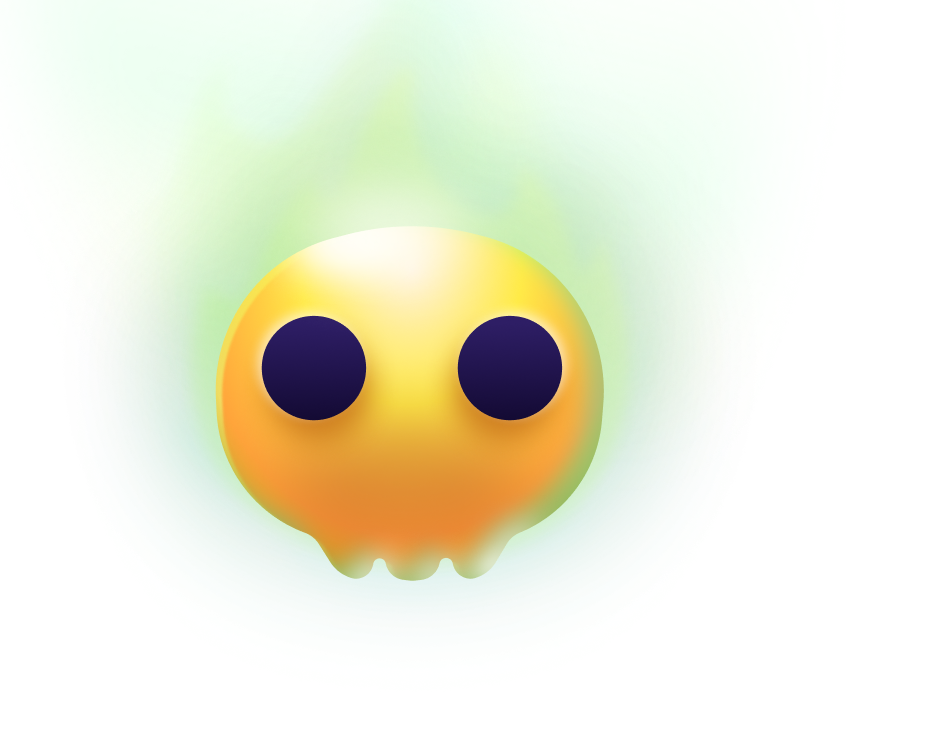
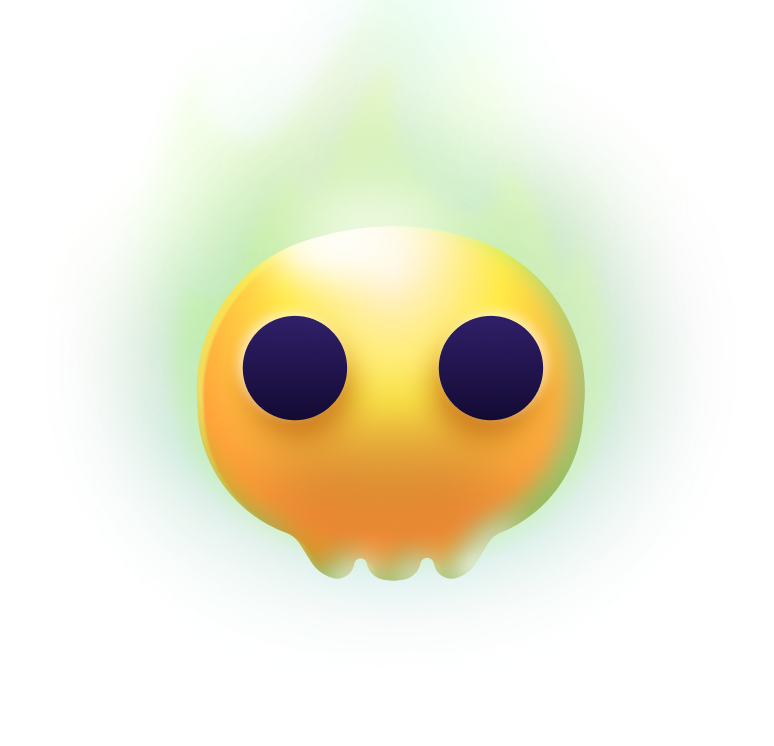
Added burger menu

Changed region(s): [[0.2171, 0.2466, 0.8372, 0.8016], [0.3101, 0.0308, 0.4341, 0.185]]

diff --git a/index.html b/index.html
@@ -26,7 +26,13 @@
   </head>
   <body>
     
-      <header class="header container">
+    <header class="header container">
+        <div href="#" class="header__btn">
+          <span class="bar"></span>
+          <span class="bar"></span>
+          <span class="bar"></span>
+        </div>
+       
         <div class="header__nav">
           <div class="header__logo">
             <img src="img/logo.svg" alt="" />
@@ -52,18 +58,12 @@
             </ul>
           </nav>
         </div>
-        <div class="burger">
-          <span></span>
-          <span></span>
-          <span></span>
-        </div>
       </header>
       <div class="main container">
-        <div class="main__wrapper">
-
-          <div class="main__l">
-            <img src="img/spookyskull.png" alt="" />
-          </div>
+    
+          
+          <div class="main__l">   
+             <img src="img/spookyskull.png" alt="">      </div>
           <div class="main__r">
             <div class="main__title">
               <span>#1 Top Scariest Ghost 2020</span>
@@ -80,7 +80,7 @@
             </div>
             <button class="btn2">His Track record</button> <img src="img/arrow.svg" alt="">
           </div>
-        </div>
+        
         </div>
       </div>
    

diff --git a/app/scss/main.scss b/app/scss/main.scss
@@ -1,34 +1,29 @@
 .main {
-  padding: 0 40px;
-  &__wrapper{
-    position: absolute;
-    top: 0;
-    display: flex;
-    justify-content: space-between;
-    align-items: center;
-    z-index: -1;
-  }
-  &__l {
-    img {
-      height: auto;
-      width: 100%;
-      
-      object-fit: cover;
-      max-width: 1108px;
+ 
 
-      z-index: -1233333;
-      top: 0;
-      left: 0;
-      
+  display: flex;
+  justify-content: space-between;
+  align-items: center;
+  flex-wrap: wrap;
+
+  
+  &__l {
+    background-size: contain;
+    background-position: center;
+
+    img {
+      transform: translateY(-70px);
+      width: 100%;
+      max-height: 100%;
+      max-width: 774px;
+      z-index: -1212;
     }
   }
   &__r {
+    margin-top: 123px;
     width: 377px;
     height: 320px;
-    padding-top: 0;
-    right: 0;
-    margin-right: 40px;
-
+    padding: 0 40px;
     p {
       line-height: 1.8;
       opacity: .8;

diff --git a/app/scss/header.scss b/app/scss/header.scss
@@ -1,5 +1,6 @@
 .header {
   align-items: center;
+  position: relative;
 
   &__nav {
     padding: 45px 40px 0 40px;
@@ -54,30 +55,24 @@
     }
     
   }
-  .burger {
-   display: block;
-    position: absolute;
-    right: 0;
-    top: 0; 
-    width: 40px;
-    height: 50px;
-    span {
-      position: absolute;
-      margin-bottom: 8px;
-      height: 5px;
-      background-color:#FF5B79 ;
-    }
-
+}
+.header__btn {
+  cursor: pointer;
+  display: none;
+  padding: 45px 40px 0 40px;
+  position: absolute;
+  top: 0;
+  right: 0;
+  width: 45px;
+  height: 50px; 
+  span {
+    display: block;
+    background-color: #FF5B79;
+    width: 100%;
+    height: 7px;
+    border-radius: 20px;
+    margin-bottom: 8px;
   }
+
 }
 
-
-.burger.active span:nth-child(1) {
-transform: rotate(-45deg);
-}
-.burger.active span:nth-child(2) {
-  opacity: 0;
-}
-.burger.active span:nth-child(3) {
-  transform: rotate(45deg);
-}

diff --git a/app/scss/respon.scss b/app/scss/respon.scss
@@ -1,0 +1,43 @@
+
+@media (max-width: 1397px) {
+    .header__btn {
+      display: block;
+      z-index: 12123123;
+    }
+    
+    .nav {
+  
+      position: absolute;
+      transform: translateY(-460px);
+      right: 0;
+      background-color: rgba(0, 0, 0, .9);
+      width: 100%;
+      z-index: 123;
+      transition: .3s linear;
+      box-shadow: #FF5B79;
+      &__list{
+        display: flex;
+        justify-content: center;
+        flex-direction: column;
+        padding: 152px 100px;
+      }
+      &__link {
+        position: relative;
+        display: flex;
+        justify-content: center;
+        text-align: center;
+       
+      }  
+      .nav__item {
+        font-size: 30px;
+        margin-bottom: 55px;
+      }
+      .nav__item-outline {
+        margin-right: 40px;
+      }
+    }
+  
+    .nav.active {
+      transform: translateY(261px);
+    }
+  }

diff --git a/app/js/script.js b/app/js/script.js
@@ -1,11 +1,6 @@
+const toggleButton = document.getElementsByClassName('header__btn')[0]
+const navbarLinks = document.getElementsByClassName('nav')[0]
 
-const burger = document.querySelector(".burger");
-
-burger.addEventListener("click", () => {
-    if (!burger.classList.contains("active")) {
-        burger.classList.add("active");
-    }
-    else {
-        burger.classList.remove('active');
-    }
-});
+toggleButton.addEventListener('click', () => {
+  navbarLinks.classList.toggle('active')
+})

diff --git a/app/scss/reset.scss b/app/scss/reset.scss
@@ -98,19 +98,7 @@ video {
 }
 
 /* HTML5 display-role reset for older browsers */
-article,
-aside,
-details,
-figcaption,
-figure,
-footer,
-header,
-hgroup,
-menu,
-nav,
-section {
 
-}
 
 body {
   line-height: 1;

diff --git a/app/scss/style.scss b/app/scss/style.scss
@@ -1,8 +1,9 @@
-@import "responsive";
+
 @import "vars";
 @import "reset";
 @import "header";
 @import "main";
+@import "respon";
 
 
 body {
